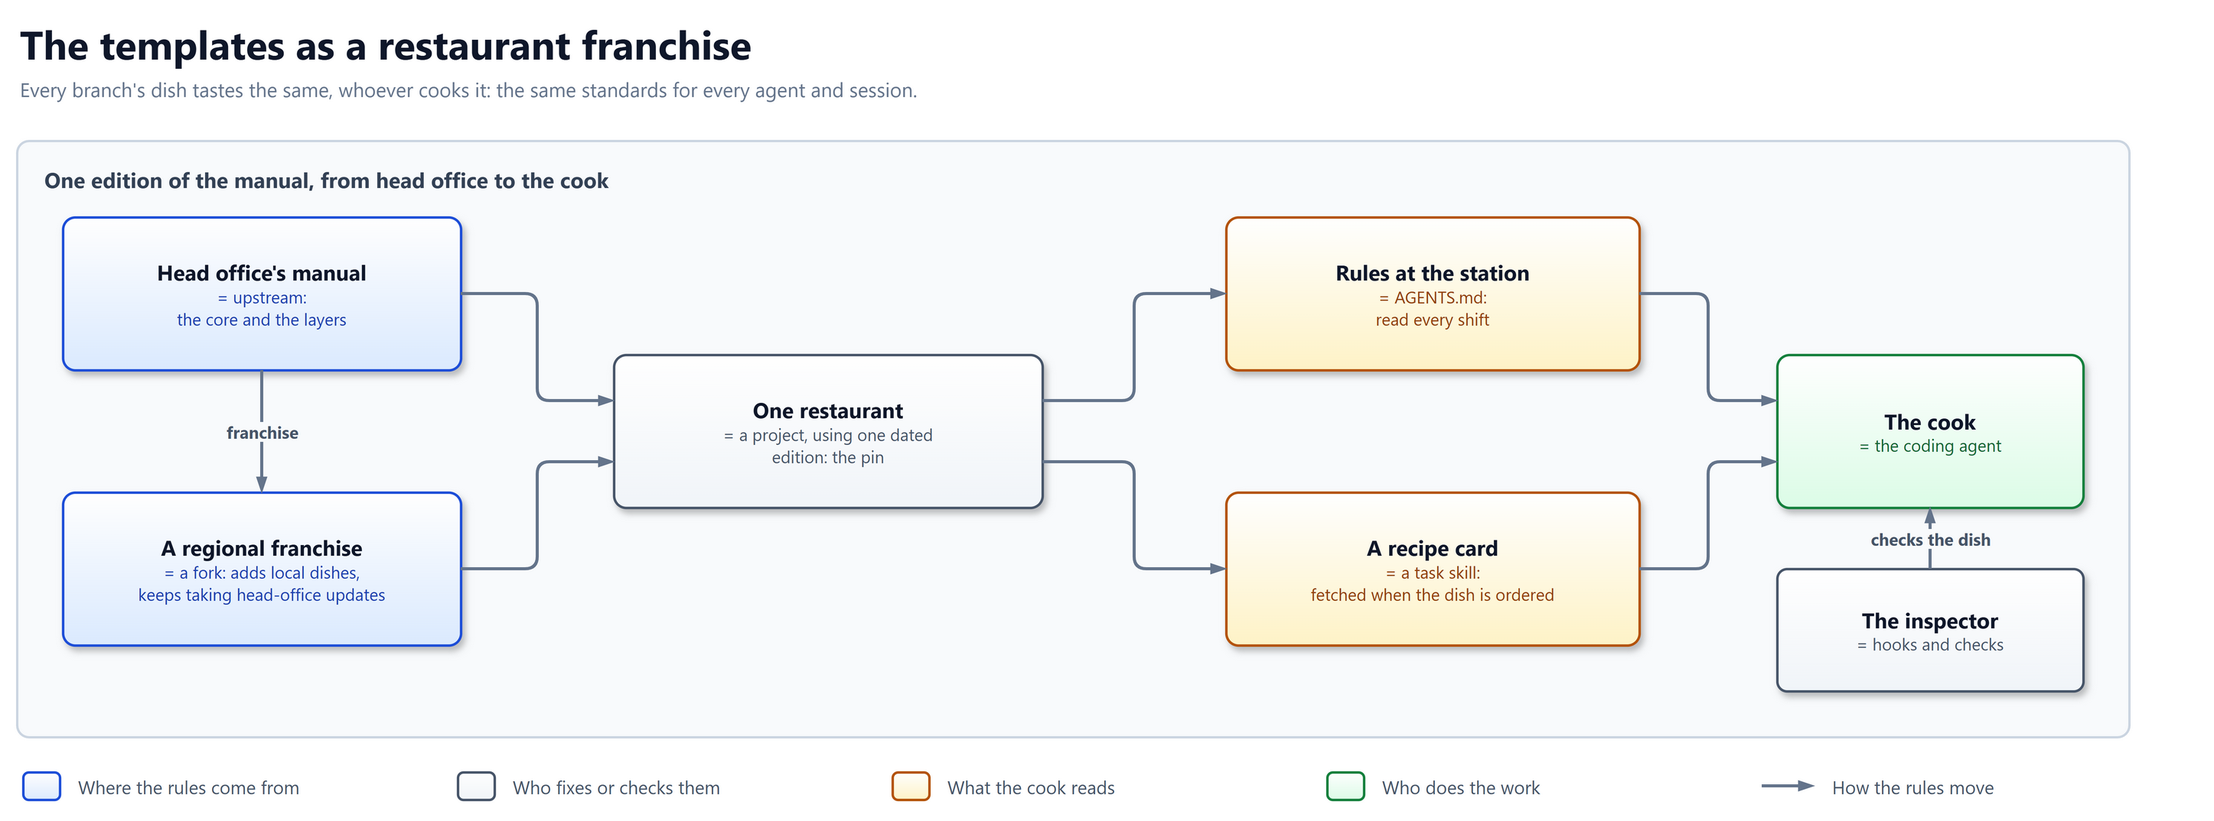
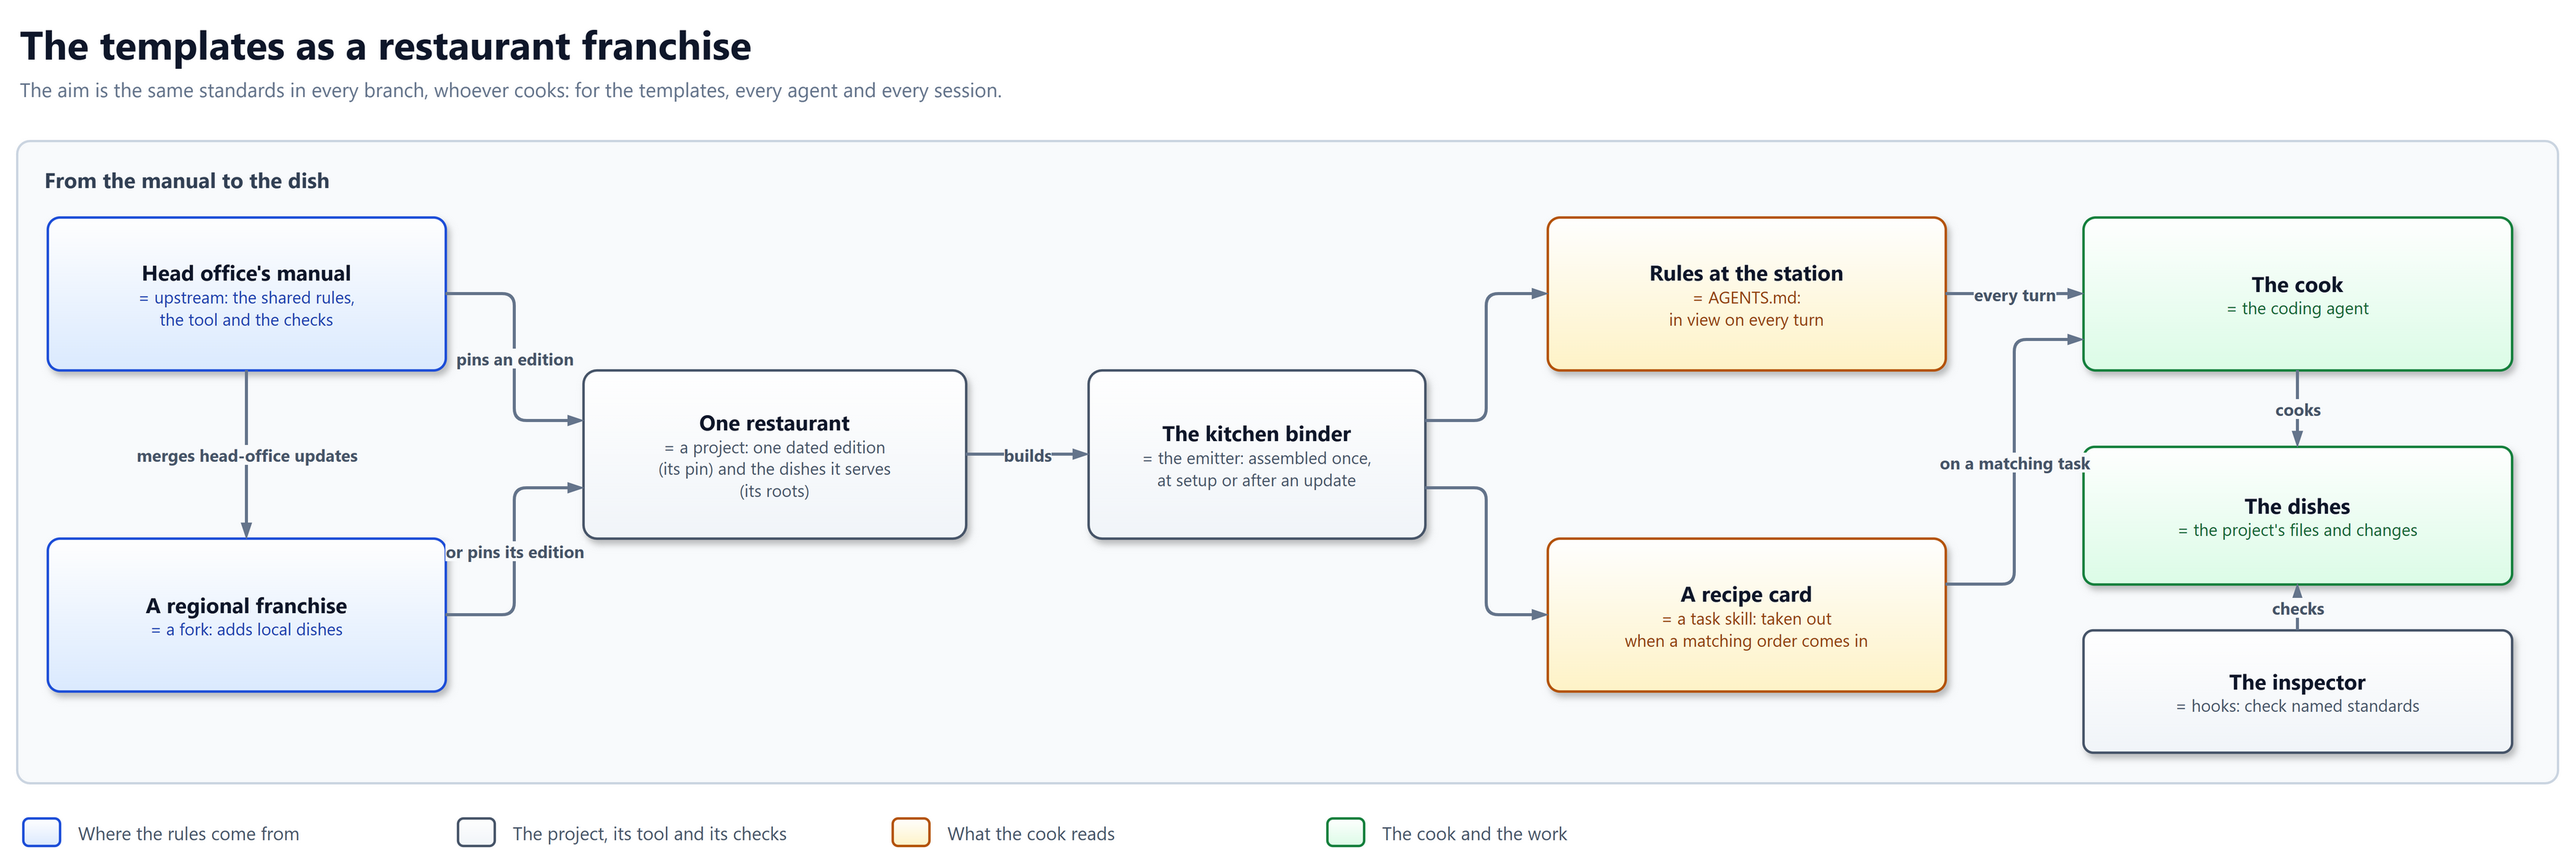
docs(primer): correct the franchise analogy against the emitter and the hooks (#2481)
Claude-Session: https://claude.ai/code/session_01DpT5xNnRJb1cwm2T3M4JoY

diff --git a/docs/primer.md b/docs/primer.md
@@ -19,26 +19,28 @@ and turned into a project's context file by a tool.
 
 ## 2. An analogy
 
-Think of a restaurant franchise. Head office wants every branch's dish to
-taste the same, whoever cooks it. The templates want the same of every
-agent and every session.
+Think of a restaurant franchise. Head office wants every branch to cook to
+the same standards, whoever is on shift. The templates aim for the same of
+every agent and every session.
 
-![The templates as a restaurant franchise. Head office's manual is upstream, the core and the layers. A regional franchise is a fork: it adds local dishes and keeps taking head-office updates. One restaurant is a project, using one dated edition of the manual, its pin. From that edition the cook, the coding agent, reads the rules at the station, AGENTS.md, every shift, and fetches a recipe card, a task skill, when that dish is ordered. The inspector, the hooks and checks, checks the dish](diagrams/primer-franchise.png)
+![The templates as a restaurant franchise. Head office's manual is upstream: the shared rules, the tool and the checks. A regional franchise is a fork: it adds local dishes and merges head-office updates. One restaurant is a project; it pins one dated edition, from head office or from a franchise, and chooses the dishes it serves, its roots. From them it builds the kitchen binder once, with the emitter, at setup or after an update. The binder holds the rules at the station, AGENTS.md, which the cook, the coding agent, has in view on every turn, and the recipe cards, the task skills, each taken out when a matching task comes in. The cook cooks the dishes, the project's files and changes, and the inspector, the hooks, checks named standards in them](diagrams/primer-franchise.png)
 
 | In a franchise | In the templates |
 | -------------- | ---------------- |
-| Head office's operations manual | Upstream, this repository |
-| The basics every branch follows, such as hygiene | The **core tier**: quality, Git, docs, testing and review |
-| The menu sections a restaurant offers | The **roots** a project picks, such as `backend-api` |
-| A regional franchise that adds local dishes and keeps taking head-office updates | A **fork** |
-| A local recipe that adds to or replaces a head-office one | A section that extends or overrides another, by its **ID** |
+| Head office's operations manual | Upstream: the shared rules, the tool that builds the files, and the checks |
+| The basics every branch follows, such as hygiene | The **core tier**, in every chain: quality, Git, docs, testing and review |
+| The dishes a restaurant serves, each bringing the basics it relies on | The **roots** a project picks, such as `backend-api`, with their dependencies |
+| A regional franchise that adds local dishes and merges head-office updates | A **fork** |
+| A local supplement that adds to or replaces a named section of the manual | A section that extends or overrides another, by its **ID** |
 | The dated edition of the manual one restaurant uses | The project's **pin**, a released tag |
-| The rules posted at the station, read every shift | `AGENTS.md`, read on every turn |
-| The recipe card fetched when a dish is ordered | A **task skill**, loaded when its task starts |
-| The inspector who checks the dishes | The shipped checks and **hooks** |
+| The kitchen binder, assembled once for this restaurant's dishes | The **emitter**'s output, rebuilt after an update |
+| The rules posted at the station, in view all the time | `AGENTS.md`, in context on every turn |
+| A recipe card, taken from the binder when a matching order comes in | A **task skill**, loaded when a matching task starts |
+| The inspector, who checks named standards in the dishes | The **hooks** and checks, run on the project's files and changes |
 
 A cook does not read the whole manual before each shift. The restaurant
-picks its menu, and a tool hands the cook the rules that menu needs.
+chooses its dishes from one edition; a tool adds the basics they rely on
+and assembles the binder, placing each rule where the manual says it goes.
 
 ## 3. From roots to files
 
